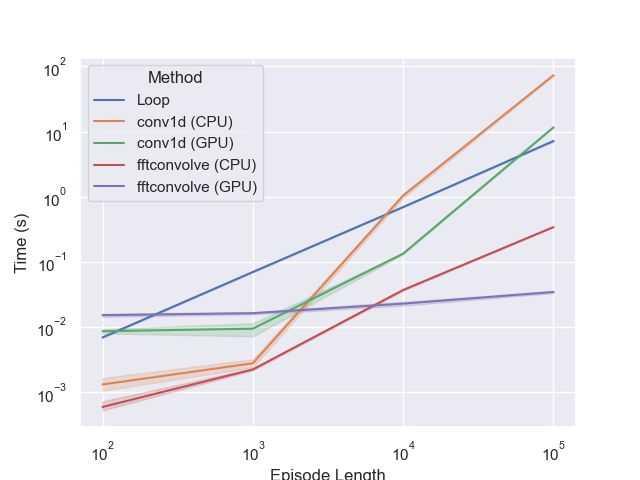
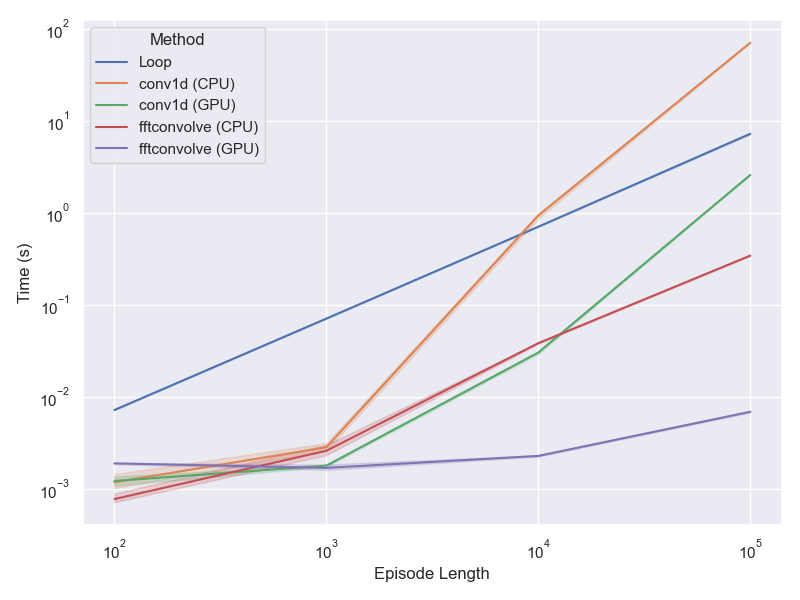
new image

diff --git a/_posts/2024-07-24-intro-to-gumbo.md b/_posts/2024-07-24-intro-to-gumbo.md
@@ -80,6 +80,5 @@ def gae_estimate_fft(rewards, values, final_value):
     return advantages
 ```
 
-The run times on various input sizes are shown below. Warm up runs were performed for GPU methods to obtain better runtime estimates.
-
-![GAE Calculation Method Runtimes Compared](/assets/gae_runtime.png)
+The run times on various input sizes are shown below. Warm up runs were performed for GPU methods to obtain better runtime estimates. I'm not entirely sure why the FFT convolution method was slower than others for smaller inputs, but I'll look into that later.
+![GAE Calculation Runtimes Compared](/assets/gae_runtime.png)
